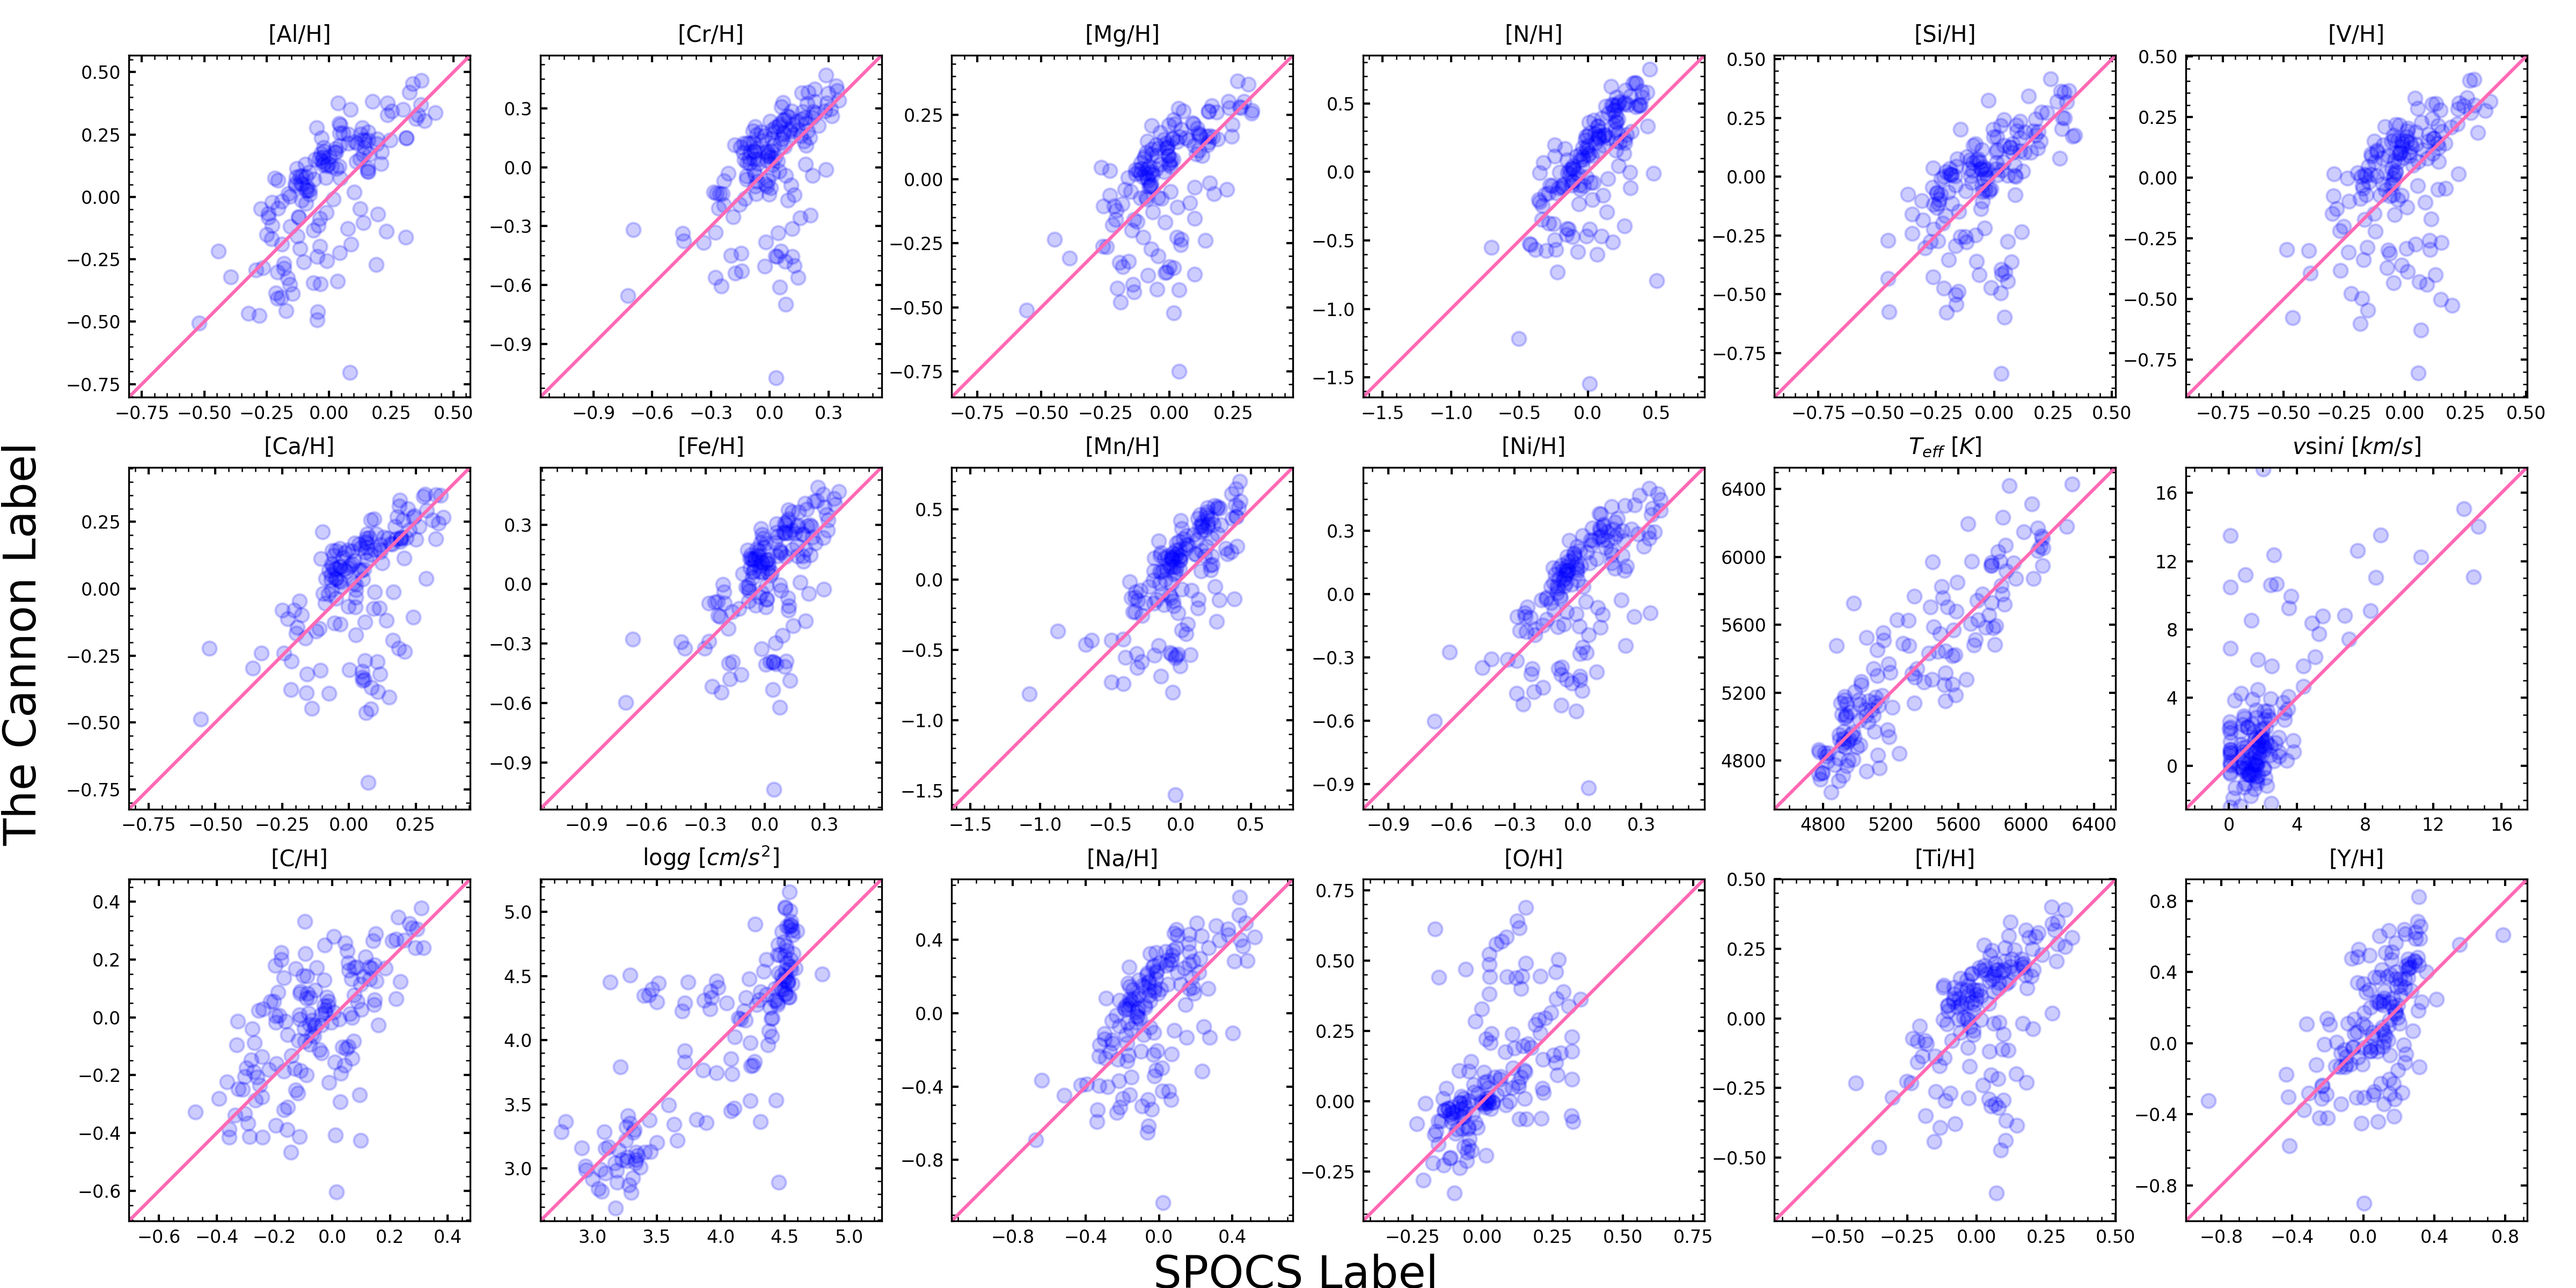
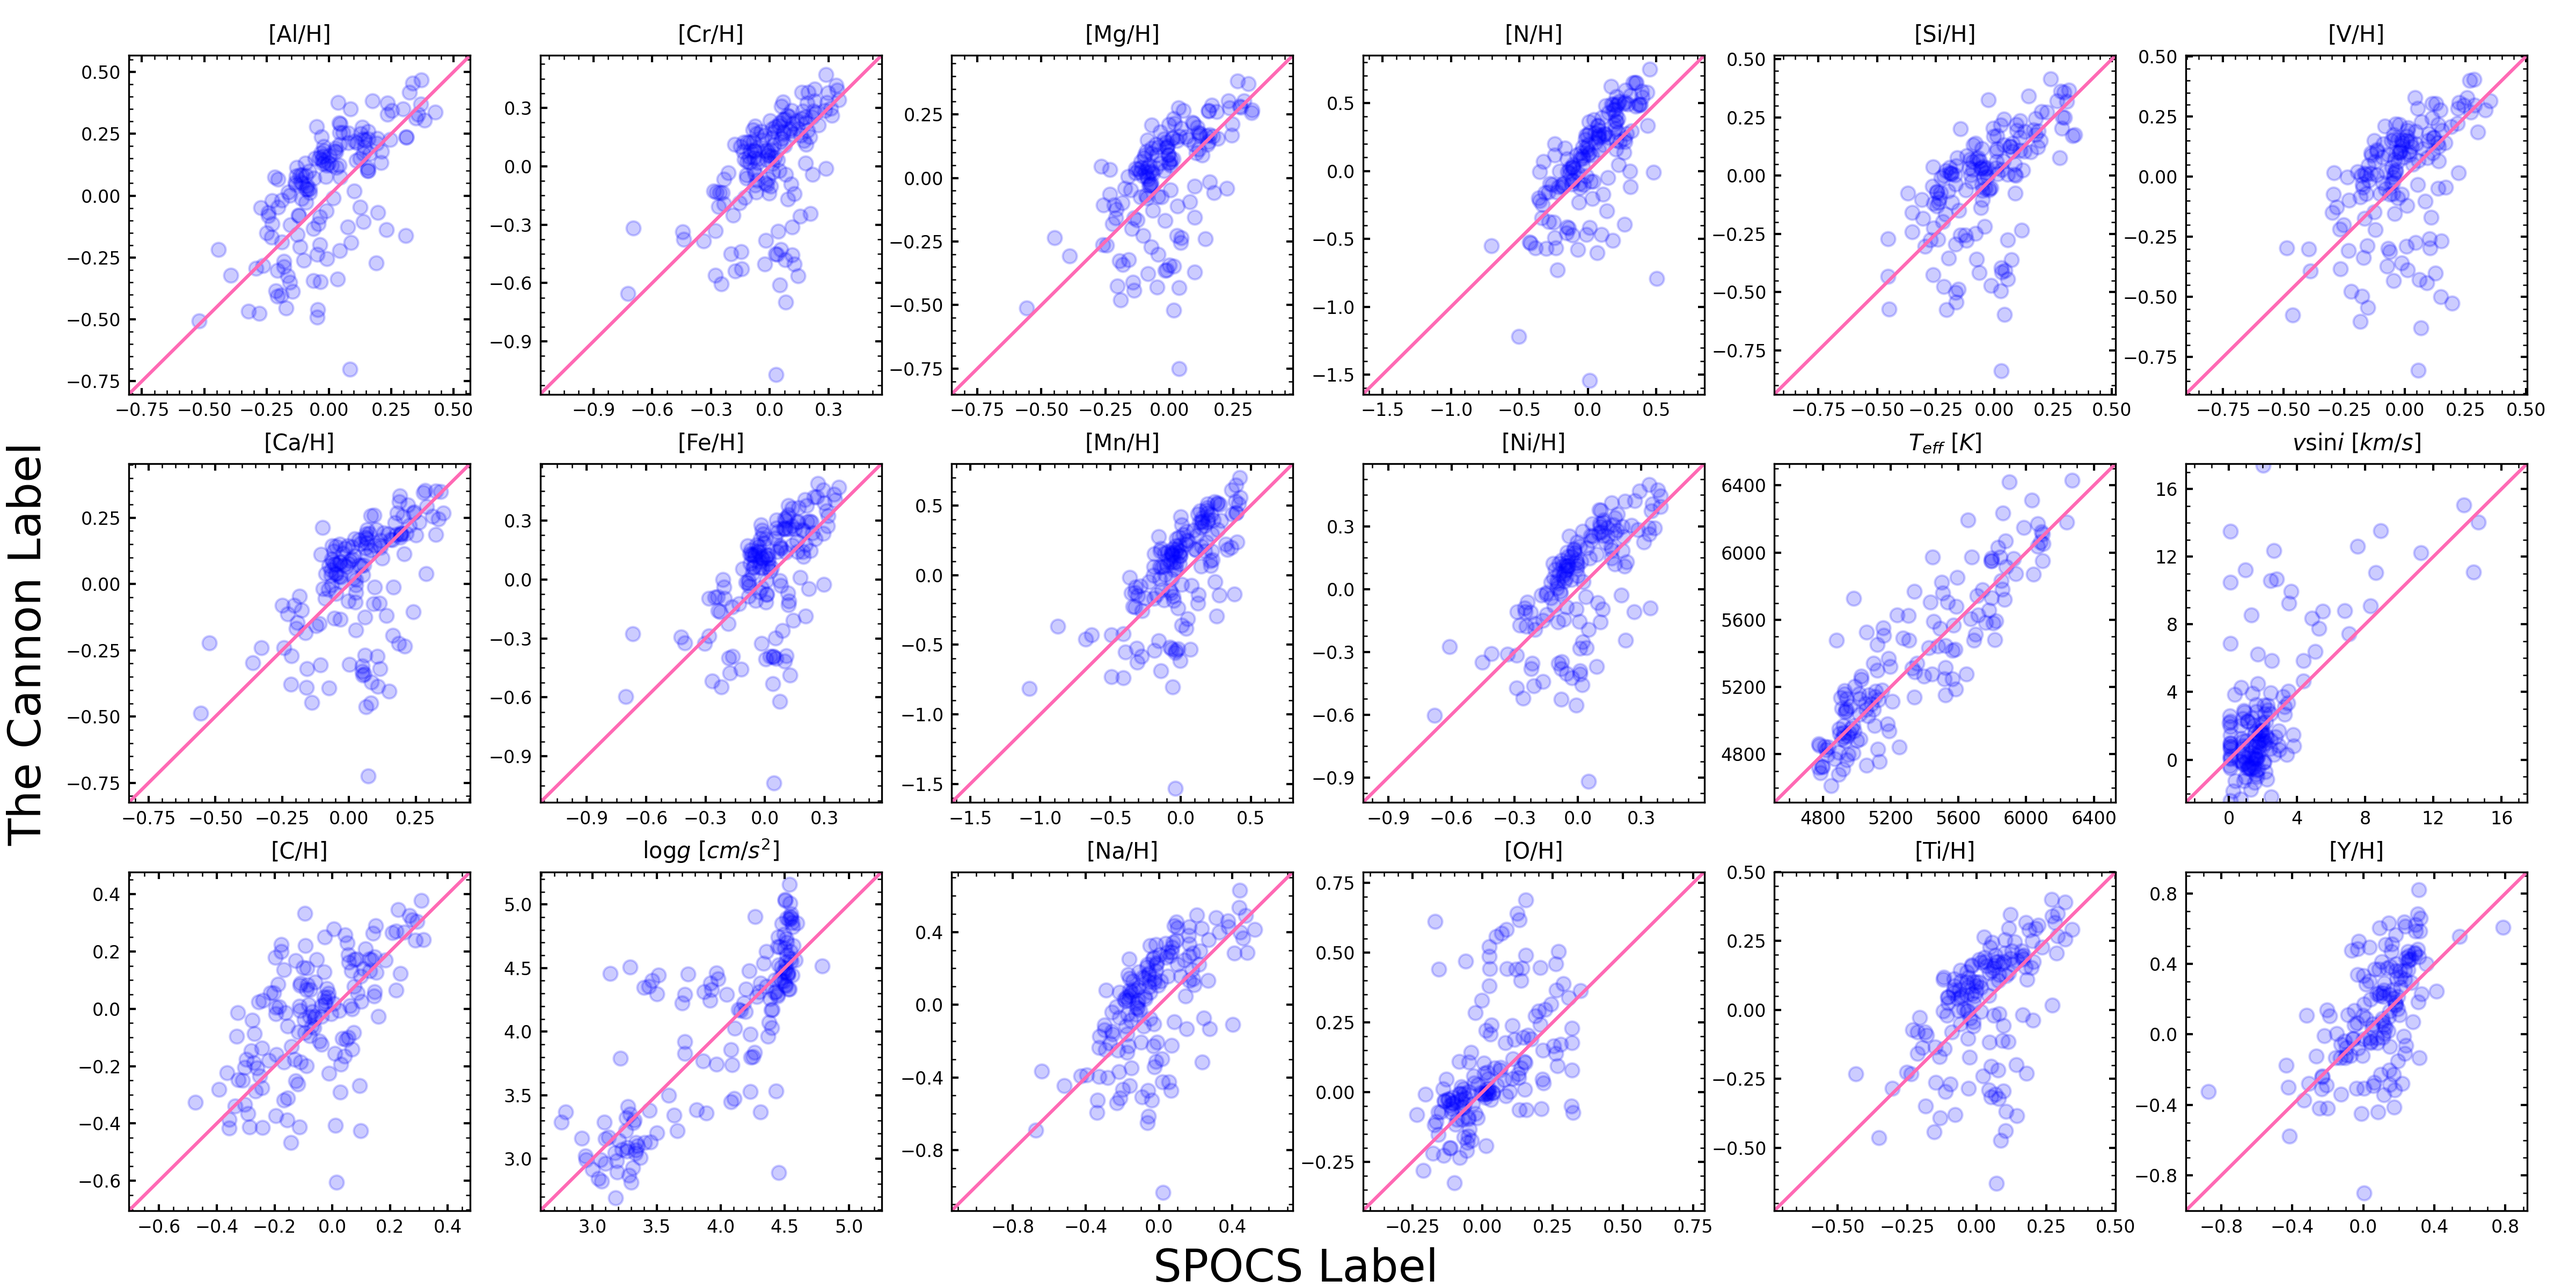
Plotting changes

diff --git a/ScriptsAndData/Plot_Results.py b/ScriptsAndData/Plot_Results.py
@@ -196,10 +196,10 @@ for path in glob.glob(folder_location+"/*.npy"):
     
     if j==6:
         
-        plt.subplots_adjust(left  = 0.05,right = 0.981,bottom = 0.052,top = 0.957,wspace = 0.205,hspace = 0.205)
+        plt.subplots_adjust(left  = 0.05,right = 0.981,bottom = 0.06,top = 0.957,wspace = 0.205,hspace = 0.205)
         
-        fig.text(0.503, 0.01, 'SPOCS Label', ha='center', va='center',size=20)
-        fig.text(0.009, 0.5, "The Cannon Label", ha='center', va='center', rotation='vertical',size=20)
+        fig.text(0.503, 0.015, 'SPOCS Label', ha='center', va='center',size=20)
+        fig.text(0.011, 0.5, "The Cannon Label", ha='center', va='center', rotation='vertical',size=20)
         #plt.tight_layout()
         plt.savefig(f"{folder_location}/All_in_one.png",dpi=300)
         plt.show()
